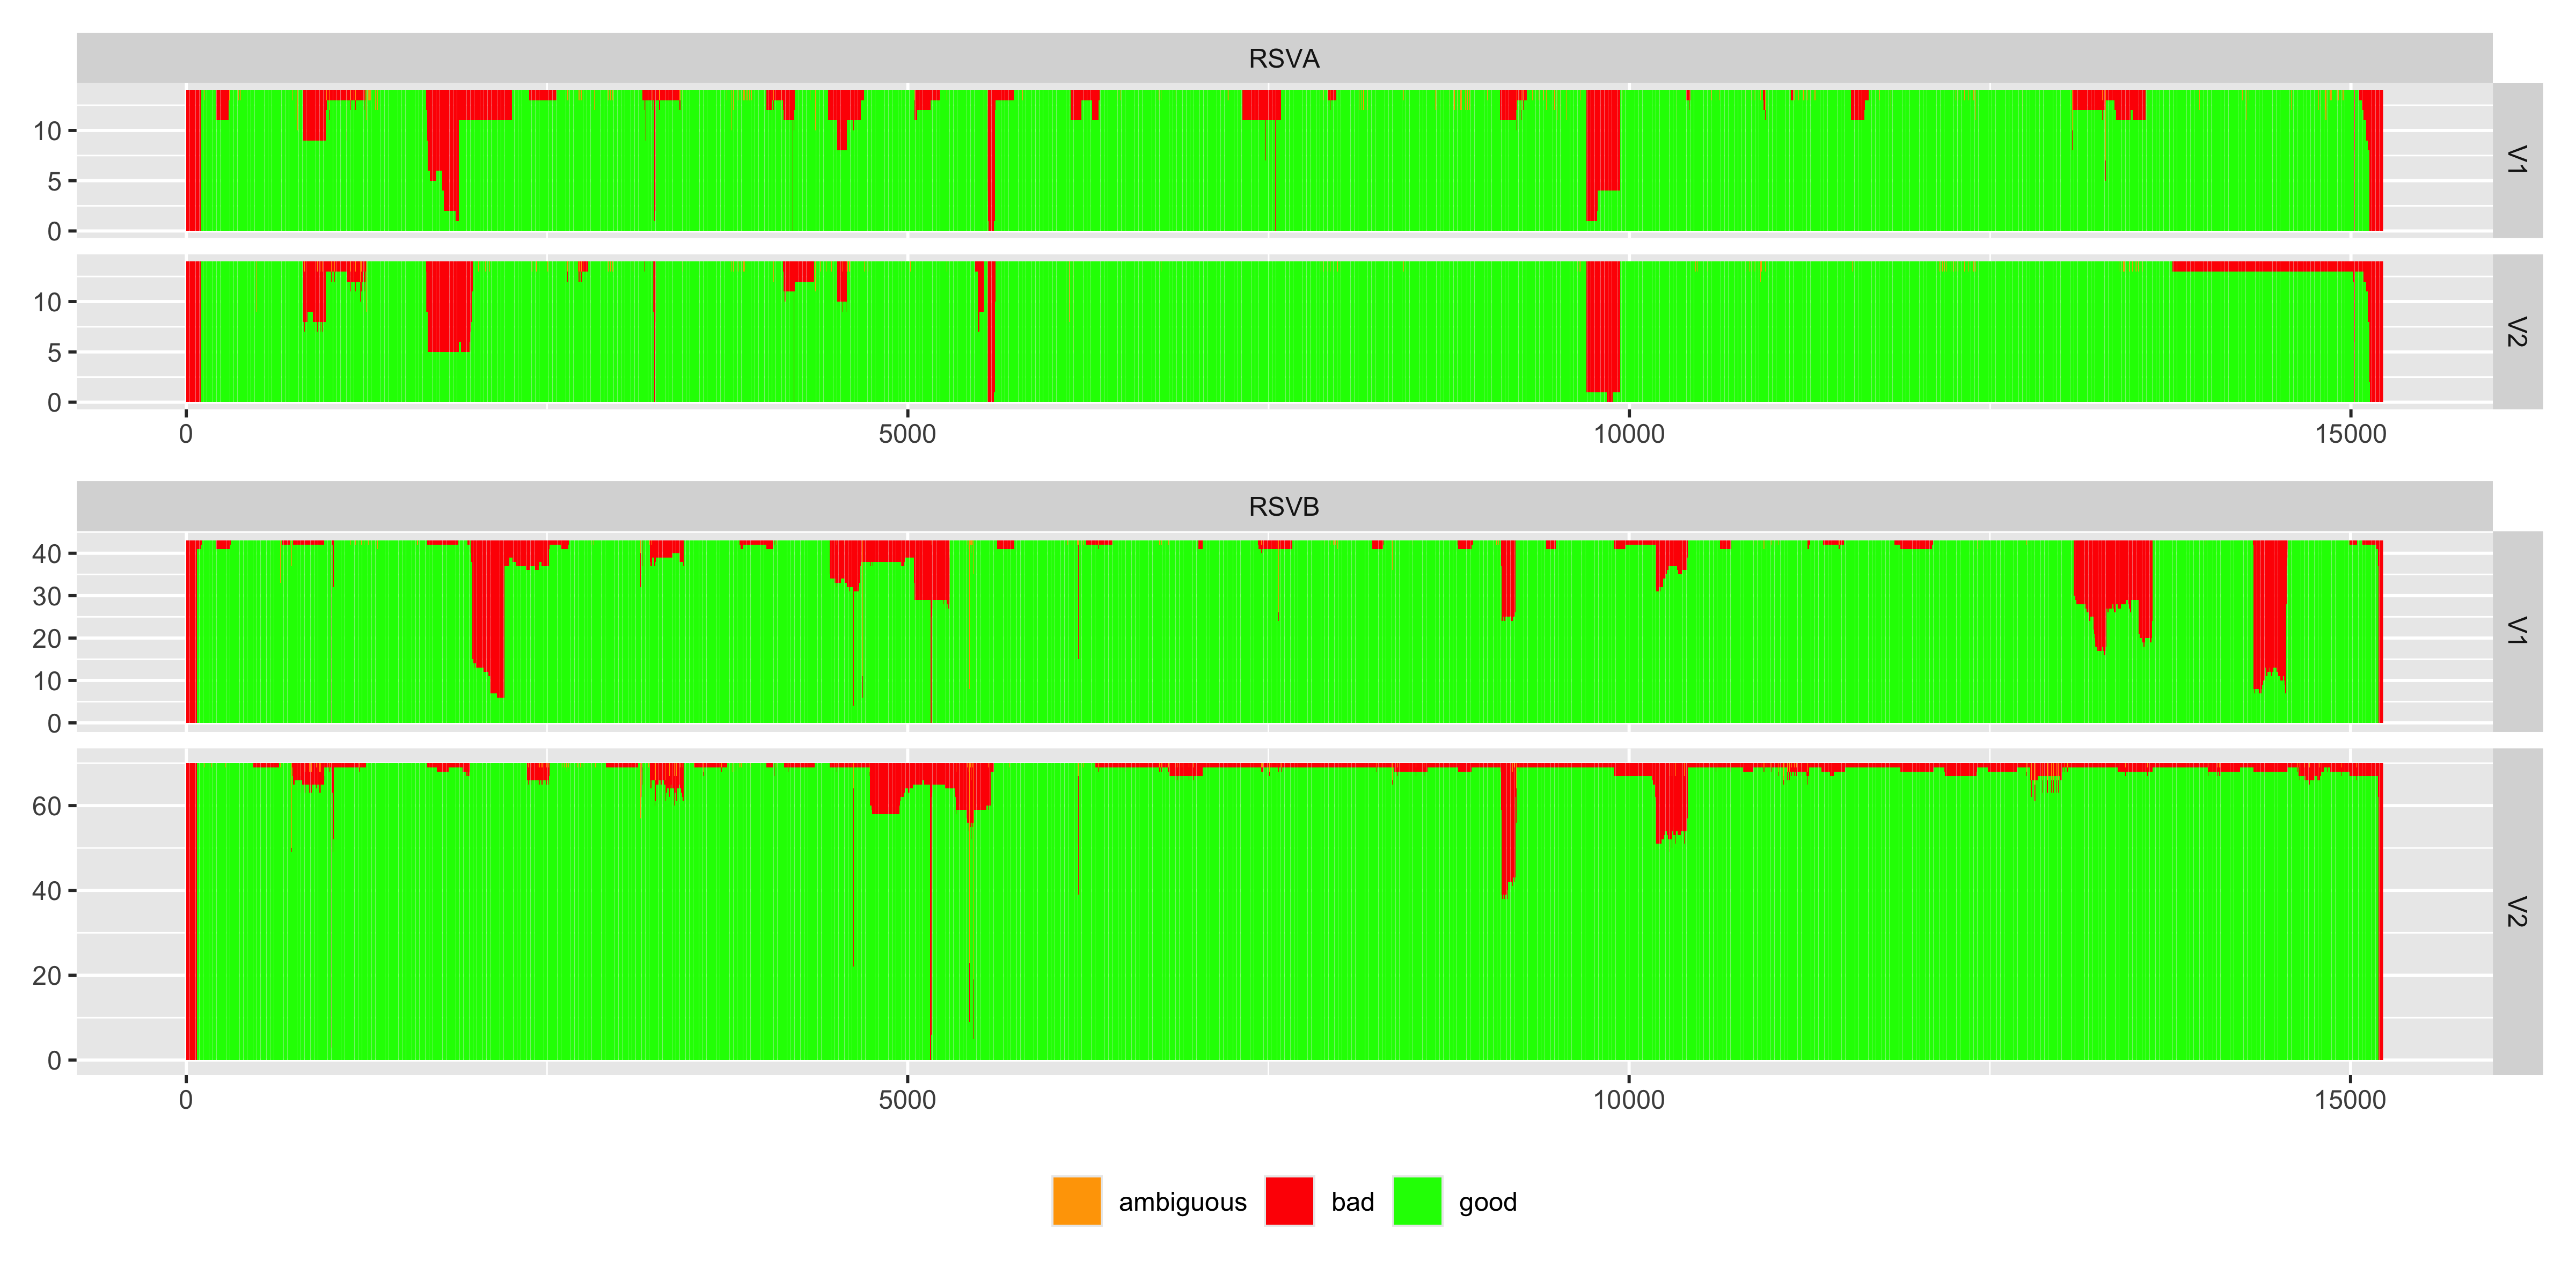
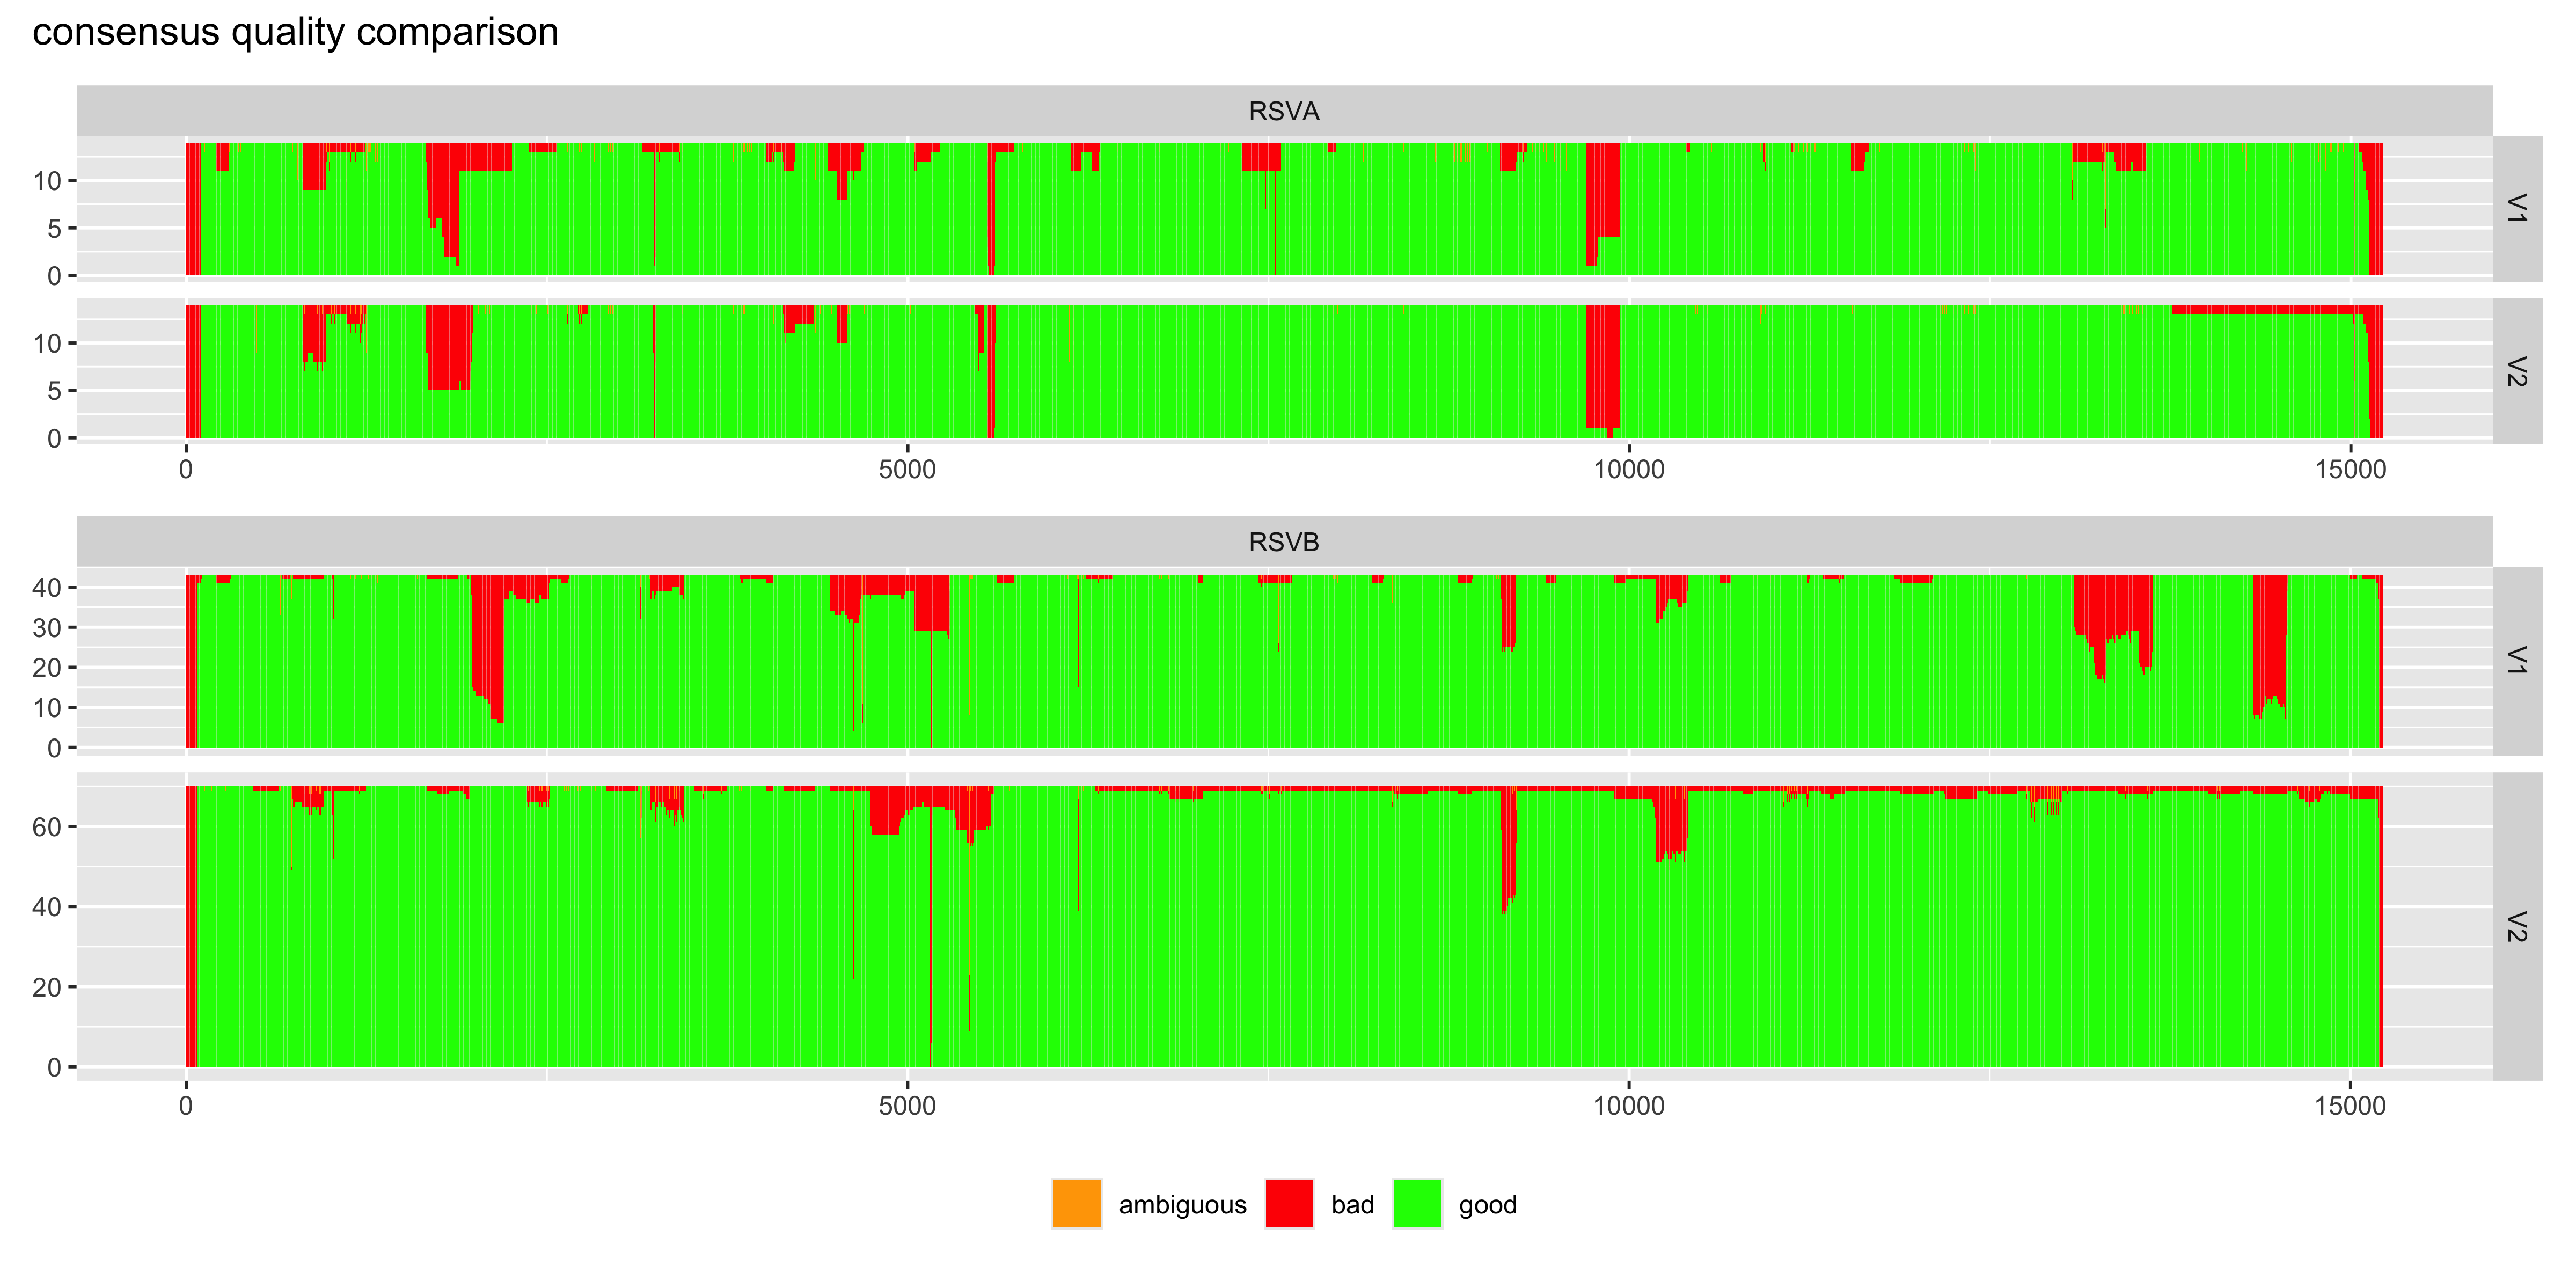
panel v1 v2 comparisons

diff --git a/analysis/241213_p1_reseq_cf/241213_P1_v1-2_cf.md b/analysis/241213_p1_reseq_cf/241213_P1_v1-2_cf.md
@@ -93,249 +93,9 @@ ampdiv <- rbind(read.table("data/RSVA_ampdiv_V1.txt",sep="\t",header=F,
 ```
 
 ``` r
-table(ampdep[,c("sample","target","ampset")])
-```
+#table(ampdep[,c("sample","target","ampset")])
+#table(ampdiv[,c("sample","target","ampset")])
 
-```
-## , , ampset = V1
-## 
-##                target
-## sample          RSVA RSVB
-##   Yale-RSV-0001   50   50
-##   Yale-RSV-0002   50   50
-##   Yale-RSV-0003   50   50
-##   Yale-RSV-0004    0   50
-##   Yale-RSV-0005    0   50
-##   Yale-RSV-0006   50   50
-##   Yale-RSV-0007   50   50
-##   Yale-RSV-0008   50   50
-##   Yale-RSV-0009    0   50
-##   Yale-RSV-0010    0   50
-##   Yale-RSV-0011    0   50
-##   Yale-RSV-0012    0   50
-##   Yale-RSV-0013    0   50
-##   Yale-RSV-0014    0   50
-##   Yale-RSV-0015    0   50
-##   Yale-RSV-0016    0   50
-##   Yale-RSV-0017    0   50
-##   Yale-RSV-0018    0   50
-##   Yale-RSV-0019    0   50
-##   Yale-RSV-0020   50    0
-##   Yale-RSV-0021    0   50
-##   Yale-RSV-0022    0   50
-##   Yale-RSV-0023    0   50
-##   Yale-RSV-0024    0   50
-##   Yale-RSV-0025    0   50
-##   Yale-RSV-0026   50   50
-##   Yale-RSV-0027    0   50
-##   Yale-RSV-0028    0   50
-##   Yale-RSV-0029   50   50
-##   Yale-RSV-0030   50    0
-##   Yale-RSV-0031    0   50
-##   Yale-RSV-0032    0    0
-##   Yale-RSV-0033    0   50
-##   Yale-RSV-0034    0   50
-##   Yale-RSV-0035    0   50
-##   Yale-RSV-0036    0   50
-##   Yale-RSV-0037   50    0
-##   Yale-RSV-0038    0   50
-##   Yale-RSV-0039    0   50
-##   Yale-RSV-0040    0   50
-##   Yale-RSV-0041    0   50
-##   Yale-RSV-0042    0   50
-##   Yale-RSV-0043   50    0
-##   Yale-RSV-0044   50   50
-##   Yale-RSV-0045    0   50
-##   Yale-RSV-0046    0    0
-##   Yale-RSV-0047   50   50
-##   Yale-RSV-0048    0   50
-##   Yale-RSV-0049    0   50
-##   Yale-RSV-0050    0   50
-##   Yale-RSV-0051   50   50
-##   Yale-RSV-0052    0   50
-##   Yale-RSV-0053   50    0
-##   Yale-RSV-0054    0   50
-##   Yale-RSV-0055   50    0
-##   Yale-RSV-0056    0   50
-##   Yale-RSV-0057    0   50
-##   Yale-RSV-0058    0   50
-##   Yale-RSV-0059    0   50
-##   Yale-RSV-0060    0   50
-##   Yale-RSV-0061   50    0
-##   Yale-RSV-0062    0    0
-##   Yale-RSV-0063    0   50
-##   Yale-RSV-0064    0   50
-##   Yale-RSV-0065    0   50
-##   Yale-RSV-0066    0   50
-##   Yale-RSV-0067    0   50
-##   Yale-RSV-0068    0   50
-##   Yale-RSV-0069    0    0
-##   Yale-RSV-0070   50   50
-##   Yale-RSV-0071   50   50
-##   Yale-RSV-0072    0   50
-##   Yale-RSV-0073    0   50
-##   Yale-RSV-0074    0   50
-##   Yale-RSV-0075   50    0
-##   Yale-RSV-0076   50    0
-##   Yale-RSV-0077    0    0
-##   Yale-RSV-0078    0    0
-##   Yale-RSV-0079    0   50
-##   Yale-RSV-0080    0   50
-##   Yale-RSV-0081    0   50
-##   Yale-RSV-0082    0   50
-##   Yale-RSV-0083    0   50
-##   Yale-RSV-0084    0   50
-##   Yale-RSV-0085   50    0
-##   Yale-RSV-0086    0   50
-##   Yale-RSV-0087    0   50
-##   Yale-RSV-0088   50    0
-##   Yale-RSV-0089    0   50
-##   Yale-RSV-0090    0   50
-##   Yale-RSV-0091    0   50
-##   Yale-RSV-0092    0   50
-##   Yale-RSV-0093    0   50
-##   Yale-RSV-0094    0   50
-##   Yale-RSV-0095    0   50
-##   Yale-RSV-0096    0   50
-## 
-## , , ampset = V2
-## 
-##                target
-## sample          RSVA RSVB
-##   Yale-RSV-0001   50    0
-##   Yale-RSV-0002   50   50
-##   Yale-RSV-0003   50   50
-##   Yale-RSV-0004   50   50
-##   Yale-RSV-0005   50   50
-##   Yale-RSV-0006   50    0
-##   Yale-RSV-0007   50    0
-##   Yale-RSV-0008   50   50
-##   Yale-RSV-0009   50   50
-##   Yale-RSV-0010    0    0
-##   Yale-RSV-0011   50   50
-##   Yale-RSV-0012   50   50
-##   Yale-RSV-0013   50   50
-##   Yale-RSV-0014   50   50
-##   Yale-RSV-0015   50   50
-##   Yale-RSV-0016    0   50
-##   Yale-RSV-0017   50   50
-##   Yale-RSV-0018   50   50
-##   Yale-RSV-0019   50   50
-##   Yale-RSV-0020   50   50
-##   Yale-RSV-0021   50   50
-##   Yale-RSV-0022   50   50
-##   Yale-RSV-0023    0   50
-##   Yale-RSV-0024    0   50
-##   Yale-RSV-0025   50   50
-##   Yale-RSV-0026   50   50
-##   Yale-RSV-0027   50   50
-##   Yale-RSV-0028   50   50
-##   Yale-RSV-0029    0   50
-##   Yale-RSV-0030   50    0
-##   Yale-RSV-0031   50   50
-##   Yale-RSV-0032    0   50
-##   Yale-RSV-0033   50   50
-##   Yale-RSV-0034    0   50
-##   Yale-RSV-0035    0   50
-##   Yale-RSV-0036    0   50
-##   Yale-RSV-0037   50    0
-##   Yale-RSV-0038   50   50
-##   Yale-RSV-0039   50   50
-##   Yale-RSV-0040   50   50
-##   Yale-RSV-0041    0   50
-##   Yale-RSV-0042   50   50
-##   Yale-RSV-0043   50    0
-##   Yale-RSV-0044   50   50
-##   Yale-RSV-0045   50   50
-##   Yale-RSV-0046    0   50
-##   Yale-RSV-0047   50   50
-##   Yale-RSV-0048   50   50
-##   Yale-RSV-0049   50   50
-##   Yale-RSV-0050    0   50
-##   Yale-RSV-0051   50   50
-##   Yale-RSV-0052   50   50
-##   Yale-RSV-0053   50    0
-##   Yale-RSV-0054   50   50
-##   Yale-RSV-0055   50    0
-##   Yale-RSV-0056    0   50
-##   Yale-RSV-0057   50   50
-##   Yale-RSV-0058   50   50
-##   Yale-RSV-0059    0   50
-##   Yale-RSV-0060   50   50
-##   Yale-RSV-0061   50    0
-##   Yale-RSV-0062   50   50
-##   Yale-RSV-0063   50   50
-##   Yale-RSV-0064    0   50
-##   Yale-RSV-0065   50   50
-##   Yale-RSV-0066   50   50
-##   Yale-RSV-0067   50   50
-##   Yale-RSV-0068    0   50
-##   Yale-RSV-0069    0   50
-##   Yale-RSV-0070   50   50
-##   Yale-RSV-0071   50   50
-##   Yale-RSV-0072   50   50
-##   Yale-RSV-0073    0   50
-##   Yale-RSV-0074    0   50
-##   Yale-RSV-0075   50    0
-##   Yale-RSV-0076   50    0
-##   Yale-RSV-0077    0   50
-##   Yale-RSV-0078   50    0
-##   Yale-RSV-0079    0   50
-##   Yale-RSV-0080   50   50
-##   Yale-RSV-0081   50   50
-##   Yale-RSV-0082   50   50
-##   Yale-RSV-0083   50   50
-##   Yale-RSV-0084   50   50
-##   Yale-RSV-0085   50    0
-##   Yale-RSV-0086   50   50
-##   Yale-RSV-0087   50   50
-##   Yale-RSV-0088   50    0
-##   Yale-RSV-0089    0   50
-##   Yale-RSV-0090    0   50
-##   Yale-RSV-0091    0   50
-##   Yale-RSV-0092   50   50
-##   Yale-RSV-0093   50   50
-##   Yale-RSV-0094   50   50
-##   Yale-RSV-0095   50    0
-##   Yale-RSV-0096   50    0
-```
-
-``` r
-table(ampdiv[,c("sample","target","ampset")])
-```
-
-```
-## , , ampset = V1
-## 
-##                target
-## sample          RSVA
-##   Yale-RSV-0001   50
-##   Yale-RSV-0002   50
-##   Yale-RSV-0003   50
-##   Yale-RSV-0006   50
-##   Yale-RSV-0007   50
-##   Yale-RSV-0008   50
-##   Yale-RSV-0020   50
-##   Yale-RSV-0026   50
-##   Yale-RSV-0029   50
-##   Yale-RSV-0030   50
-##   Yale-RSV-0037   50
-##   Yale-RSV-0043   50
-##   Yale-RSV-0044   50
-##   Yale-RSV-0047   50
-##   Yale-RSV-0051   50
-##   Yale-RSV-0053   50
-##   Yale-RSV-0055   50
-##   Yale-RSV-0061   50
-##   Yale-RSV-0070   50
-##   Yale-RSV-0071   50
-##   Yale-RSV-0075   50
-##   Yale-RSV-0076   50
-##   Yale-RSV-0085   50
-##   Yale-RSV-0088   50
-```
-
-``` r
 ampdep <- merge(ampdep,
                 ampdep %>% dplyr::group_by(ampset) %>% 
                   summarize(meddep=median(depth))) %>% 
@@ -1186,7 +946,7 @@ qplotB = ggplot(subset(consquals,target=="RSVB"), aes(x=pos,y=value,fill=name)) 
                   legend.title=element_blank(),axis.title=element_blank())
 
 
-qplotA + qplotB + guide_area() + plot_layout(heights=c(3,5,1),guides="collect")
+qplotA + qplotB + guide_area() + plot_layout(heights=c(3,5,1),guides="collect") + plot_annotation(title="consensus quality comparison",)
 ```
 
 ![plot of chunk unnamed-chunk-9](figure/unnamed-chunk-9-2.png)